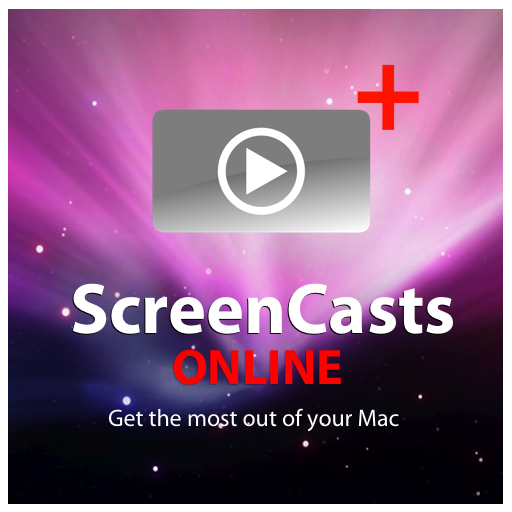
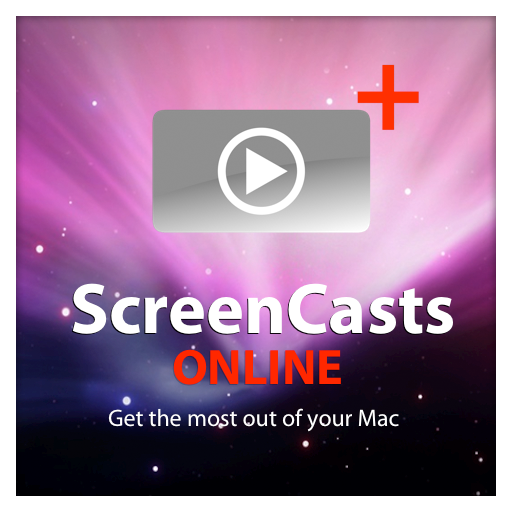
Further update to v2 framework, added RSS feed for 2011 (untested)

Changed region(s): [[0.0, 0.0, 1.0, 1.0], [0.6875, 0.125, 0.8125, 0.25], [0.6875, 0.5938, 0.7188, 0.625]]

diff --git a/Contents/Code/__init__.py b/Contents/Code/__init__.py
@@ -8,6 +8,7 @@
 
 SITEMAP_URL   = "http://www.screencastsonline.com/sco_info/info/sitemapcategory.html"
 RSS_URL_FREE  = "http://www.screencastsonline.com/feeds/scofree.xml"
+RSS_URL_2011  = "http://www.screencastsonline.com/Extra_Premium/feeds/scoextra_prem_2011_%s.xml"
 RSS_URL_2010  = "http://www.screencastsonline.com/Extra_Premium/feeds/scoextra_prem_2010_%s.xml"
 RSS_URL_2009  = "http://www.screencastsonline.com/Extra_Premium/feeds/scoextra_prem_2009_%s.xml"
 RSS_URL_2008  = "http://www.screencastsonline.com/Extra_Premium/feeds/scoextra_prem_2008_%s.xml"
@@ -22,11 +23,11 @@ def Start():
   Plugin.AddViewGroup("List", viewMode="List", mediaType="items")
   MediaContainer.viewGroup = "List"
   MediaContainer.noCache = True
-  MediaContainer.art = R("art-default.png")
+  MediaContainer.art = R("art-default.jpg")
   DirectoryItem.thumb = R("icon-sco.png")
   VideoItem.thumb = R("icon-sco.png")
   PrefsItem.thumb = R("icon-sco.png")
-  HTTP.SetCacheTime(7200)
+  HTTP.CacheTime = 7200
   Prefs.SetDialogTitle(L("ScreenCastsOnline Preferences"))
   if Dict["blacklist"] is None: Dict.Reset()
   LogIn()
@@ -42,9 +43,9 @@ def CreateDict():
   Dict["blacklist"] = []
 
 def GetVideoDef():
-  if Prefs.Get("hd"): return "HD"
+  if Prefs["hd"]: return "HD"
   else: return "ED"
-  
+
 def UpdateCache():
   if LOGGED_IN:
     videoDef = GetVideoDef()
@@ -54,6 +55,7 @@ def UpdateCache():
     HTTP.Request(RSS_URL_2008 % videoDef)
     HTTP.Request(RSS_URL_2009 % videoDef)
     HTTP.Request(RSS_URL_2010 % videoDef)
+    HTTP.Request(RSS_URL_2011 % videoDef)
     UpdateBlacklist()
   else:
     HTTP.Request(RSS_URL_FREE)
@@ -70,12 +72,12 @@ def UpdateBlacklist():
 
 def LogIn():
   global LOGGED_IN
-  username = Prefs.Get("username")
-  password = Prefs.Get("password")
+  username = Prefs["username"]
+  password = Prefs["password"]
   if (username != "" and password != ""):
     try:
       # Set the password & request a members-only page
-      HTTP.SetPassword("www.screencastsonline.com", Prefs.Get("username"), Prefs.Get("password"))
+      HTTP.SetPassword("www.screencastsonline.com", Prefs["username"], Prefs["password"])
       result = HTTP.Request("http://www.screencastsonline.com/Extra_Premium/info/overview.html", cacheTime=0).content
       if result is not None:
         LOGGED_IN = True
@@ -89,7 +91,7 @@ def LogIn():
       return False
   LOGGED_IN = False
   return False
-  
+
 def ValidatePrefs():
   LogIn()
   Thread.Create(UpdateCache)
@@ -97,17 +99,18 @@ def ValidatePrefs():
   if not LOGGED_IN:
     return MessageContainer("Unable to log in to ScreenCastsOnline", "The username or password you provided was incorrect.")
 
-@handler("/video/sco", "PLUGIN_NAME")
+@handler("/video/sco", "ScreenCastsOnline")
 def MainMenu():
   d = MediaContainer()
-  
+
   # Main menu code for Extra! members
   if LOGGED_IN:
     # Get the video definition
     videoDef = GetVideoDef()
-    
+
     # Add all the items, using the appropriate feeds
-    d.Append(Function(DirectoryItem(RSSDirectory, title=L("ScreenCasts from 2010: SCO0232 and above")), url=RSS_URL_2010 % videoDef, label=L("2010")))
+    d.Append(Function(DirectoryItem(RSSDirectory, title=L("ScreenCasts from 2011: SCO???? and above")), url=RSS_URL_2011 % videoDef, label=L("2011")))
+    d.Append(Function(DirectoryItem(RSSDirectory, title=L("ScreenCasts from 2010: SCO0232 - SCO????")), url=RSS_URL_2010 % videoDef, label=L("2010")))
     d.Append(Function(DirectoryItem(RSSDirectory, title=L("ScreenCasts from 2009: SCO0181 - SCO0231")), url=RSS_URL_2009 % videoDef, label=L("2009")))
     d.Append(Function(DirectoryItem(RSSDirectory, title=L("ScreenCasts from 2008: SCO0131 - SCO0180")), url=RSS_URL_2008 % videoDef, label=L("2008")))
     d.Append(Function(DirectoryItem(RSSDirectory, title=L("ScreenCasts from 2007: SCO0081 - SCO0130")), url=RSS_URL_2007 % videoDef, label=L("2007")))
@@ -120,70 +123,70 @@ def MainMenu():
     d.Append(Function(DirectoryItem(RSSDirectory, title=L("Recent Free ScreenCasts")), url=RSS_URL_FREE, label=L("Free")))
     d.Append(PrefsItem(title=L("Log in to access ScreenCasts for Extra! members only")))
   return d
-  
+
 def RSSDirectory(sender, url, label=None, mixed=False):
   # Check whether we should be using HD versions & create the added_titles array for mixed mode
-  HD = Prefs.Get("hd")
+  HD = Prefs["hd"]
   added_titles = []
-  
+
   # Set the container title
   dir = MediaContainer(title2=label)
-  
+
   # Fetch the feed
   feed = XML.ElementFromURL(url)
-  
+
   # Get the blacklist (only used when logged in)
   if LOGGED_IN:
     blacklist = Dict.Get("blacklist")
   else:
     blacklist = []
-    
+
   # Iterate through the feed items
   for item in feed.xpath("//rss/channel/item"):
     # Track whether the item should be added
     should_add = False
-    
+
     # Get the attributes
     title = item.xpath("title")[0].text
     subtitle = item.xpath("pubDate")[0].text
     url = item.xpath("enclosure")[0].get("url")
-    
+
     # Check for a thumbnail
     thumb = None
     thumbEl = item.xpath("media:thumbnail", namespaces={"media":"http://search.yahoo.com/mrss/"})
     if len(thumbEl) > 0:
       thumb = thumbEl[0].get("url")
-    
+
     # Stop if it's an iPod video, or it's a HD video and we're in ED mode
     if title.find("[iPod]") == -1 and (HD or not HD and title.find("[HD]") == -1):
-      
+
       # If logged in, we need to do additional processing
       if LOGGED_IN:
-      
+
         # If the title is blacklisted, stop
         if title not in blacklist:
-        
+
           # If the show identifier not has already been added, add the item
           if title[1:8] not in added_titles:
-          
+
             # Add the show identifier to the added_titles array
             if mixed and HD: added_titles.append(title[1:8])
             should_add = True
-            
+
           # If in HD mode, and a title has already been added, but this item is in HD,
           # remove the previous item & add this one instead
           elif HD and title.find("[HD]") != -1:
             dir.Pop(len(dir)-1)
             should_add = True
-      
+
       # If not logged in, just add the item
       else:
         should_add = True
-    
+
     # If the item should be added, add it
     if should_add:
       # Clean up the title first
       title = title.replace("[HD]","").replace("[DT]","").replace("[ED]", "")
       dir.Append(VideoItem(url, title=title, subtitle=subtitle, thumb=thumb))
-    
+
   return dir
